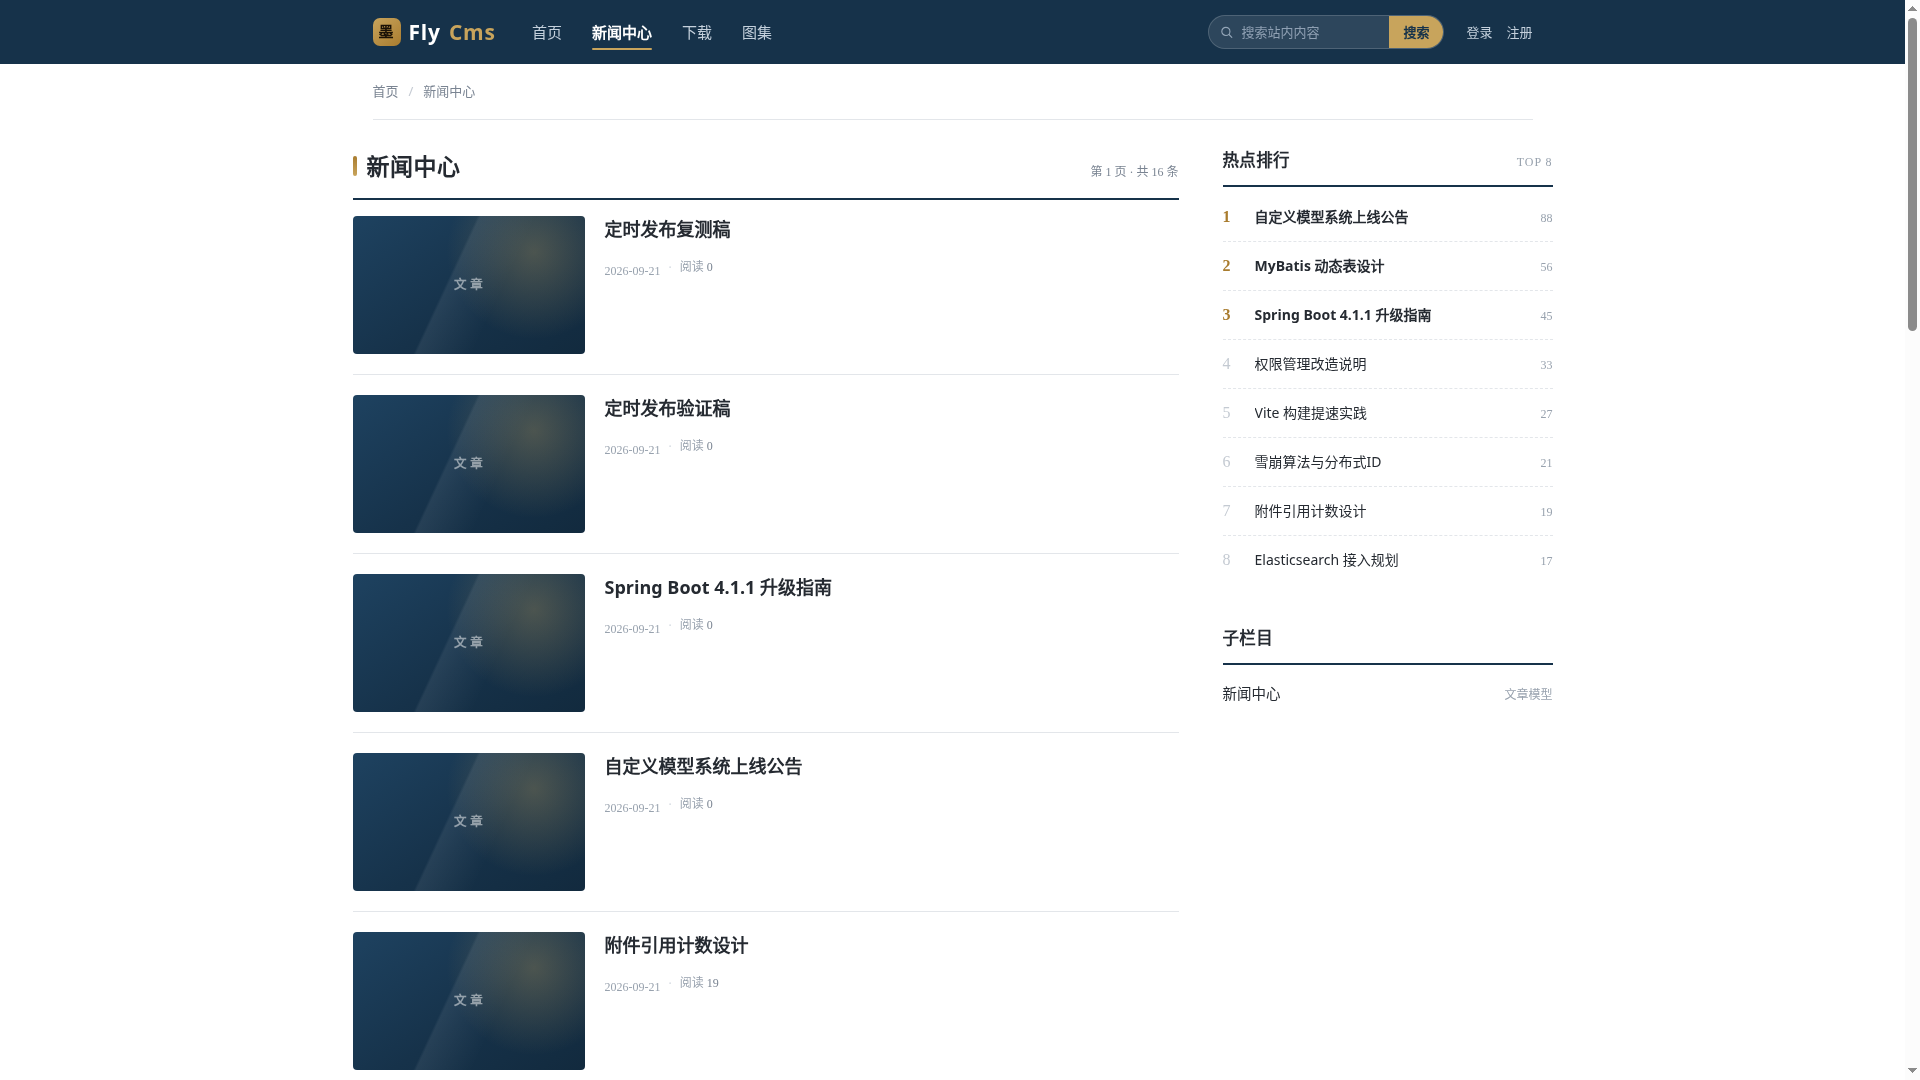
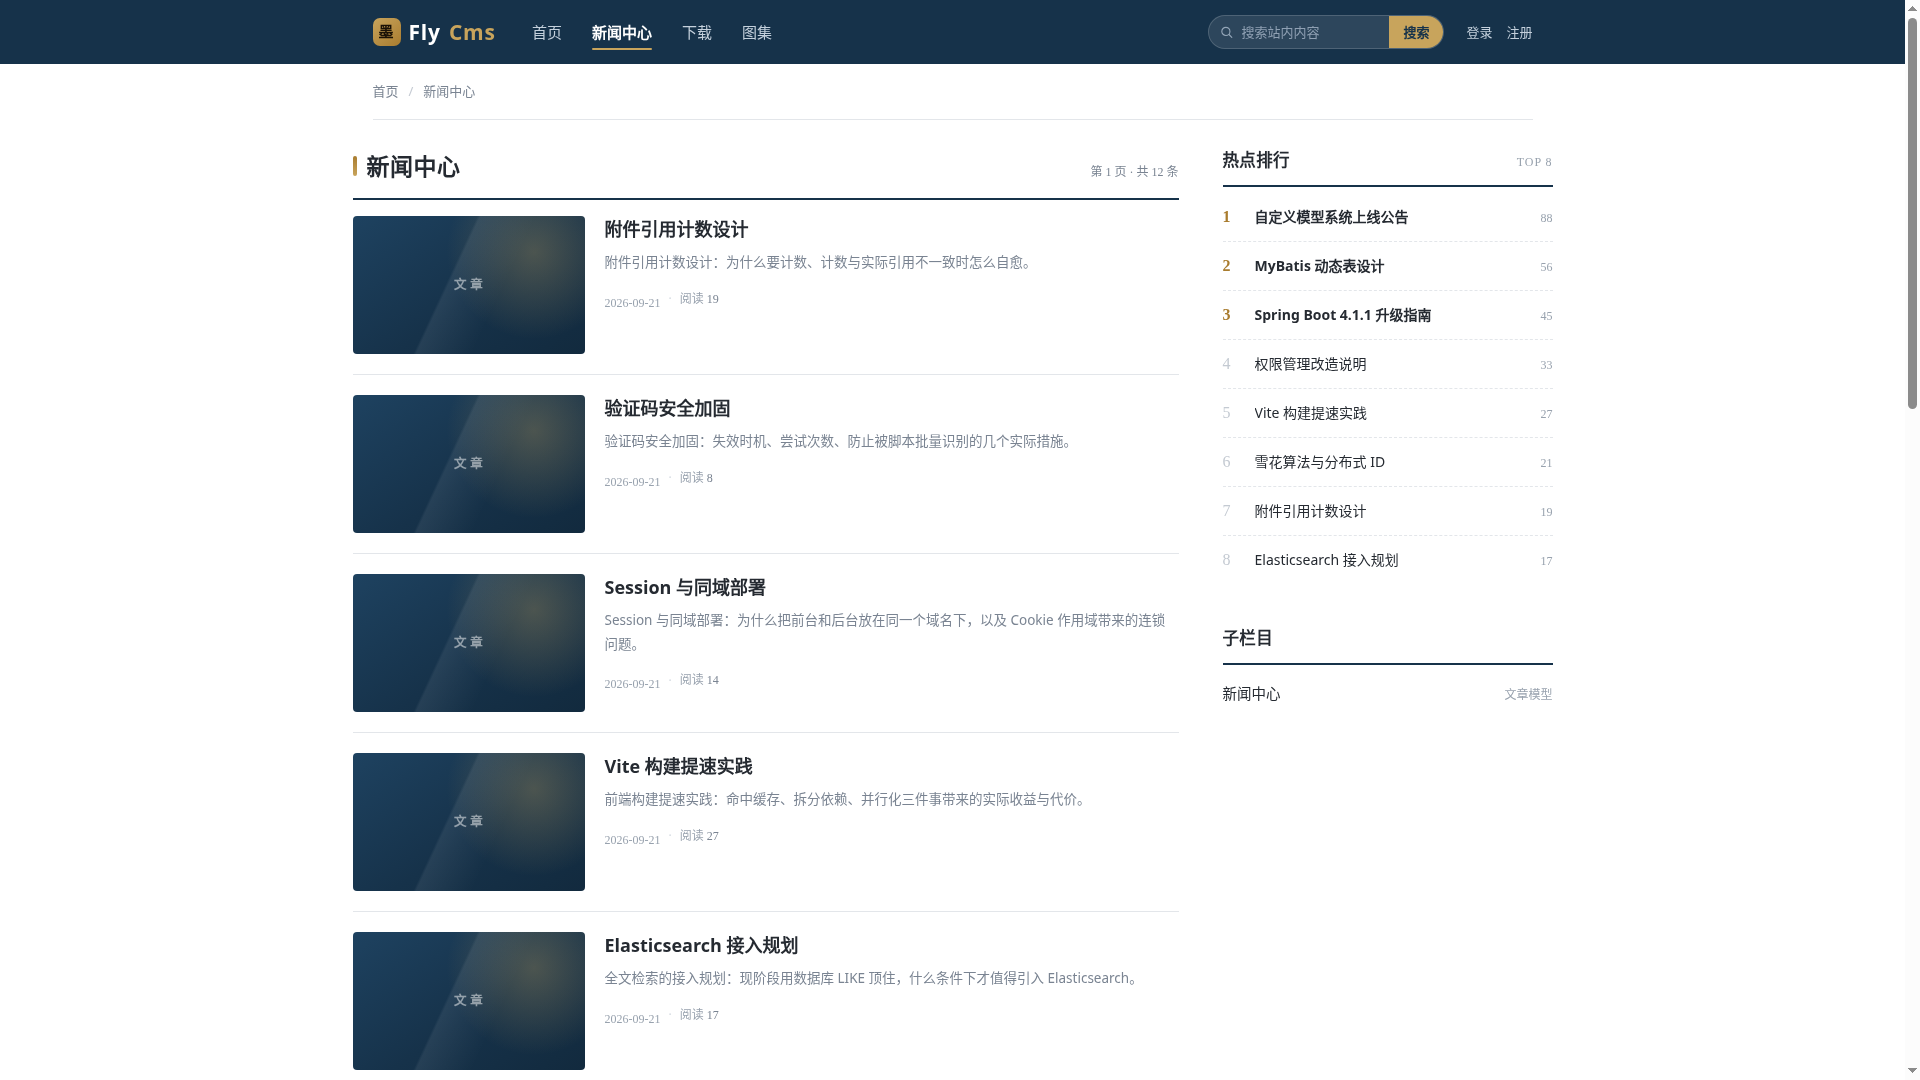
演示内容与商店截图定稿
- 演示内容：删 4 条无效文章（2 条空正文测试稿 + 2 条同名重复），12 篇补 316~446 字正文、摘要与关键词，修「雪崩算法」错字
- seed 标记升级 demo_content_v2，让改动在已有库上也能重放
- 截图换为 v20 实机 4 张（首页/新闻/文章/后台登录）
- package.yml 描述去掉「商城、封面图」等与界面不符的描述
- NOTES.md 补 §19 演示内容、§20 验收陷阱（数据卷不清空 / mysql latin1 / semver）

diff --git a/tools/api-push.py b/tools/api-push.py
@@ -1,0 +1,155 @@
+#!/usr/bin/env python3
+"""用 GitHub Git Data API 推送提交（本机到 github.com 的 git 协议不通时使用）。
+
+用法: api-push.py <owner/repo> <branch> <base_commit_sha> <message_file> [paths...]
+不带 paths 时推送本地 HEAD 相对 base 的全部变更（含新增/修改/删除）。
+"""
+import base64
+import glob
+import json
+import os
+import subprocess
+import sys
+import urllib.error
+import urllib.request
+
+REPO, BRANCH, BASE, MSG_FILE = sys.argv[1:5]
+ONLY = sys.argv[5:]
+
+
+def read_bytes(path: str) -> bytes:
+    try:
+        with open(path, 'rb') as f:
+            return f.read()
+    except OSError as exc:
+        raise SystemExit(f'读不到文件 {path}: {exc}') from exc
+
+
+def read_text(path: str) -> str:
+    return read_bytes(path).decode('utf-8')
+
+
+def token() -> str:
+    for path in glob.glob('/home/wans/.pi/agent/sessions/--home-wans--/*.jsonl'):
+        try:
+            with open(path, encoding='utf-8', errors='replace') as f:
+                blob = f.read()
+        except OSError:
+            continue
+        marker = 'GITHUB_TOKEN='
+        start = blob.find(marker + 'ghp_')
+        while start >= 0:
+            i = start + len(marker)
+            cand = ''
+            while i < len(blob) and (blob[i].isalnum() or blob[i] in '_-'):
+                cand += blob[i]
+                i += 1
+            if len(cand) == 40:
+                return cand
+            start = blob.find(marker + 'ghp_', start + 1)
+    raise SystemExit('未找到 GITHUB_TOKEN')
+
+
+TOKEN = token()
+
+
+def api(method: str, path: str, payload=None):
+    url = f'https://api.github.com/repos/{REPO}{path}'
+    data = json.dumps(payload).encode() if payload is not None else None
+    req = urllib.request.Request(url, data=data, method=method)
+    req.add_header('Authorization', f'Bearer {TOKEN}')
+    req.add_header('Accept', 'application/vnd.github+json')
+    if data:
+        req.add_header('Content-Type', 'application/json')
+    try:
+        with urllib.request.urlopen(req, timeout=60) as resp:
+            body = resp.read()
+    except urllib.error.HTTPError as exc:
+        detail = exc.read().decode('utf-8', 'replace')[:400]
+        raise SystemExit(f'{method} {path} -> HTTP {exc.code}: {detail}') from exc
+    except urllib.error.URLError as exc:
+        raise SystemExit(f'{method} {path} 网络错误: {exc}') from exc
+    if not body:
+        return {}
+    try:
+        return json.loads(body)
+    except json.JSONDecodeError as exc:
+        raise SystemExit(f'{method} {path} 返回非 JSON: {body[:200]!r}') from exc
+
+
+def git(*args) -> str:
+    try:
+        return subprocess.run(['git', *args], capture_output=True, text=True, check=True).stdout
+    except subprocess.CalledProcessError as exc:
+        raise SystemExit(f'git {" ".join(args)} 失败: {exc.stderr.strip()}') from exc
+
+
+def tracked(path: str) -> bool:
+    try:
+        git('ls-files', '--error-unmatch', '--', path)
+        return True
+    except SystemExit:
+        return False
+
+
+def local_has(sha: str) -> bool:
+    try:
+        git('cat-file', '-e', f'{sha}^{{commit}}')
+        return True
+    except SystemExit:
+        return False
+
+
+changes = []
+if ONLY:
+    # 显式给了路径：本机仓库可能只是快照、对象库里没有远端 base 提交（到 github.com 的
+    # git 协议不通，fetch 不下来），这时不能靠 `git diff --name-status BASE HEAD` 枚举，
+    # 直接按给定路径判定新增/修改。目录会展开成其中的文件。
+    if local_has(BASE):
+        for line in git('diff', '--name-status', BASE, 'HEAD').splitlines():
+            parts = line.split('\t')
+            if len(parts) >= 2 and parts[-1] in ONLY:
+                changes.append((parts[0][0], parts[-1]))
+    for p in ONLY:
+        if os.path.isdir(p):
+            for full in sorted(glob.glob(os.path.join(p, '**', '*'), recursive=True)):
+                if os.path.isfile(full):
+                    changes.append(('M' if tracked(full) else 'A', full))
+        elif os.path.isfile(p):
+            changes.append(('M' if tracked(p) else 'A', p))
+else:
+    for line in git('diff', '--name-status', BASE, 'HEAD').splitlines():
+        parts = line.split('\t')
+        if len(parts) >= 2:
+            changes.append((parts[0][0], parts[-1]))
+
+if not changes:
+    raise SystemExit('没有需要推送的变更')
+# 2) 逐个文件建 blob（删除的走 sha:null）
+tree_items = []
+for status, path in changes:
+    if status == 'D':
+        tree_items.append({'path': path, 'mode': '100644', 'type': 'blob', 'sha': None})
+        print(f'  D {path}')
+        continue
+    raw = read_bytes(path)
+    blob = api('POST', '/git/blobs', {
+        'content': base64.b64encode(raw).decode(),
+        'encoding': 'base64',
+    })
+    ls = git('ls-files', '-s', '--', path).strip()
+    # 未跟踪的新文件在 ls-files 里没有记录，按普通文件权限推
+    mode = ls.split()[0] if ls else '100644'
+    tree_items.append({'path': path, 'mode': mode, 'type': 'blob', 'sha': blob['sha']})
+    print(f'  {status} {path} ({len(raw)}B, mode {mode})')
+
+# 3) 新 tree / commit / 移动分支
+base_tree = api('GET', f'/git/commits/{BASE}')['tree']['sha']
+tree = api('POST', '/git/trees', {'base_tree': base_tree, 'tree': tree_items})
+commit = api('POST', '/git/commits', {
+    'message': read_text(MSG_FILE),
+    'tree': tree['sha'],
+    'parents': [BASE],
+})
+api('PATCH', f'/git/refs/heads/{BRANCH}', {'sha': commit['sha'], 'force': False})
+print(f'pushed {commit["sha"][:12]} -> {BRANCH}')

diff --git a/NOTES.md b/NOTES.md
@@ -273,8 +273,18 @@ mysql -h "$HOST" -u"$USER" "$DB" -e \
 | 摘要缺失 | `description`、`keywords` 全为 `NULL`，详情页 `<meta name="description">` 因此为空 |
 | 错字 | 「雪崩算法」应为「雪花算法」（Snowflake） |
 
-另外确认了两件不必做的事：主题列表页那个蓝色渐变封面块是**纯 CSS 装饰**，`articles/list.html` 与 `cmodel/list.html` 里根本没有 `img`/`thumbnail`，`fly_images` 表 0 行、`/app/uploadfiles` 空目录——所以「给文章配缩略图」对观感没有任何影响，不用做。
+另外确认了两件不必做的事。一是主题列表页那个蓝色渐变封面块：`/app/views/templates/pc_theme/defalut/common/macros.html:29` 在 `url` 为空时渲染 `<span class="ph" data-label="${PH_LABELS[mc]}">`，样式在 `/app/views/static/skin/pc_theme/defalut/css/portal.css:639` 的 `.ph`——深蓝渐变 + `::before` 的金色径向光晕与斜向高光 + `::after` 的字距 0.3em 模型名，源码注释写着「封面占位（无图时的 CSS 图案，零请求；避免破图）」。这是上游刻意的无图占位设计，不是破图，**不要再改它**；觉得四张排在一起单调是「文章都没有封面图」的数据问题，不是样式问题。二是给文章配缩略图：`articles/list.html` 与 `cmodel/list.html` 里根本没有 `img`/`thumbnail`，`fly_images` 表 0 行、`/app/uploadfiles` 空目录，配了也不显示。
 
 处理方式见 `content/seed-demo.sql`：删掉上述 4 条无效数据（2 条空测试稿 + 2 条重复稿），给剩下 12 篇补 316~446 字符的正文、摘要与关键词，并修正错字。幂等靠独立标记表 `fly_seed_marker`（刻意不写 `fly_config_web`——那是应用的站点配置表，塞一行未知 keycode 会让后台「网站设置」页多出一个陌生字段），由 `content/init-db.sh` 在库导入完成后执行一次，用户后来在后台改过的正文不会被容器重启覆盖。
 
 顺带一个坑：应用对**不存在的短链返回 200**（软 404，渲染空态页而不是 404 页）。所以删掉 `YjaqAv` 之后，旧截图对应的 URL 不会报错、只是继续显示空正文——只靠状态码检查发现不了，必须看正文内容。第 3 张截图改用 `ar0001aa`（自定义模型系统上线公告，88 阅读）。
+
+## 20. 两个验收陷阱：数据卷不随卸载清空、mysql 客户端默认 latin1
+
+**卸载重装不等于全新安装。** `lzc-cli app uninstall` 之后重装，`/lzcapp/var` 下的数据卷仍然在，初始化脚本看到表数够就直接跳过。第一次踩到时看到的现象是：改完 seed 重装，页面还是老的乱码内容——数据根本没重新导入。判断依据很直接：全新导入那轮 `S5 容器就绪` 等了 42 秒，复用数据那轮只等了 11 秒。要验证首次初始化链路，必须先 `DROP DATABASE`（或清掉数据卷）再装。
+
+**mysql 客户端在容器内默认按 latin1 握手。** `seed-demo.sql` 是 UTF-8，但重定向喂给 `mysql` 时没有声明字符集，服务端按 latin1 收下、再以 utf8mb4 存表，结果是双重编码——正文渲染成 `è+ä'@§à'%oæ...`，而 `HEX()` 里能清楚看到 `C3A8 E280A1` 这种「UTF-8 里再装一次 mojibake」的字节。上游主 dump 自带了 `SET NAMES utf8mb4` 所以一直没事，自己写的补丁文件必须自己声明。两处都补了：`seed-demo.sql` 顶部加 `SET NAMES utf8mb4`，`init-db.sh` 的两条文件导入加 `--default-character-set=utf8mb4`。
+
+有一个容易骗过自己的细节：排查时用 `ssh lzcbox` 查库，正常的 `中文标题` 全打成了 `????`，而乱码行反而能正常显示——因为双重编码后每个字符都落在 Latin-1 可打印区间。**终端里的 `????` 不代表数据坏，能打出来的乱码才是数据坏了。**
+
+**商店版本号必须过 semver 校验。** `lzc-cli project release` 的 lint 会拦下 `2026.09.28-1`：`App Store submission requires a valid semver version`。semver 禁止数字段带前导零，`09` 非法，改成 `2026.9.28-1` 才通过。上游 `backend/pom.xml` 只有 `1.0-SNAPSHOT`、无 tag 也无 release，所以采用「快照日期-打包修订号」，与商店里 `2.8.0-3`、`1.21.5-1` 这类写法一致。
